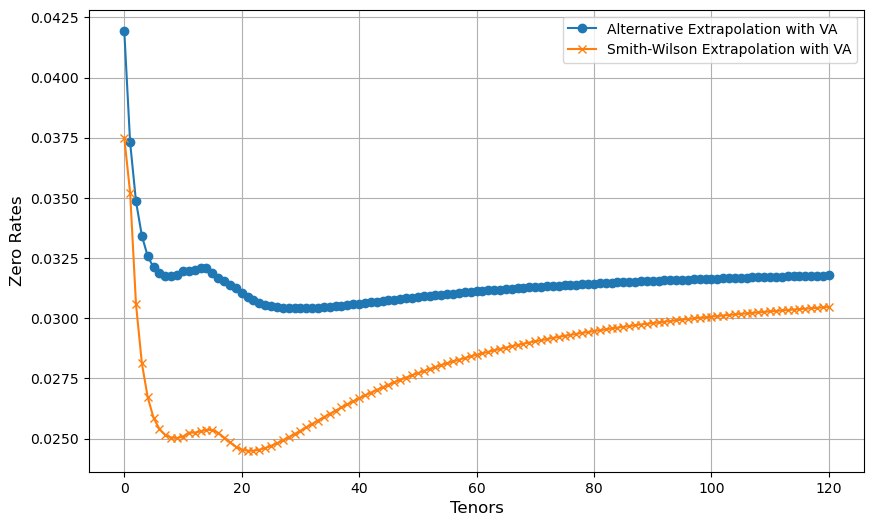
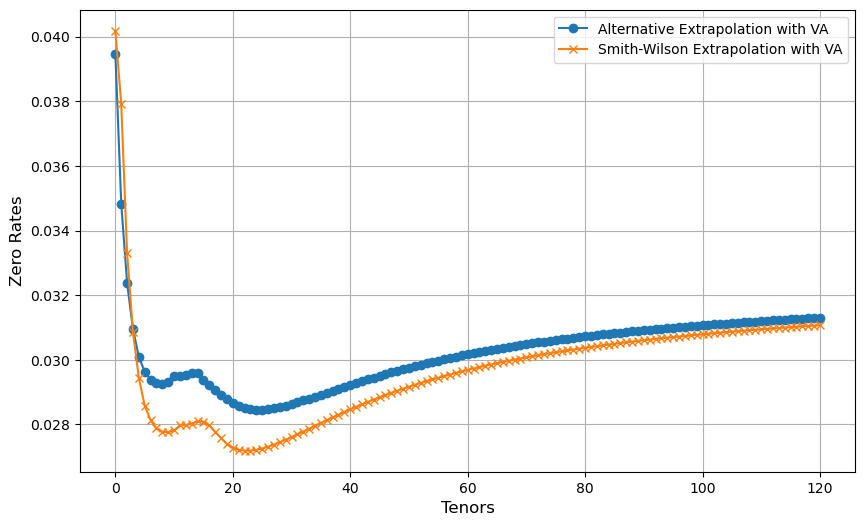
SII Review Tool: Adding externally computed va spread values.

diff --git a/main.py b/main.py
@@ -21,9 +21,6 @@ def main():
     va_spreads_df.set_index('Issuer', inplace=True)
     md.close_workbook()
 
-    # Parameters
-    cp = CurveParameters()
-
     # Instantiate business logic classes
     bootstr = Bootstrapping()
     ext_alt = ExtrapolationAlt()
@@ -32,19 +29,22 @@ def main():
 
     # Define scenarios
     scenarios = [
-        {'name': 'base_interest_base_spreads', 'shift': 0},
-        {'name': 'low_interest_base_spreads', 'shift': -200},
-        {'name': 'base_interest_high_spreads', 'shift': 200},
-        {'name': 'high_interest_base_spreads', 'shift': 200},
-        {'name': 'high_interest_high_spreads', 'shift': 200},
+        {'name': 'base_interest_base_spreads', 'irshift': 0, 'csshift': 0, 'vaspread': 27},
+        {'name': 'low_interest_base_spreads', 'irshift': -200, 'csshift': 0, 'vaspread': 27},
+        {'name': 'base_interest_high_spreads', 'irshift': 200, 'csshift': 100, 'vaspread': 45},
+        {'name': 'high_interest_base_spreads', 'irshift': 200, 'csshift': 0, 'vaspread': 45},
+        {'name': 'high_interest_high_spreads', 'irshift': 200, 'csshift': 100, 'vaspread': 27},
     ]
     # scenarios = [
-    #     {'name': 'low_interest_low_spreads', 'shift': 0}
+    #     {'name': 'low_interest_low_spreads', 'irshift': 0}
     # ]
 
     # Iterate over scenarios
     for scenario in scenarios:
         print(f"Processing scenario: {scenario['name']}")
+
+        # Parameters
+        cp = CurveParameters(scenario['vaspread'])
 
         # Apply global shift to curves for high interest rates or spreads
         df_alt_shifted = df_alt.copy()
@@ -52,14 +52,14 @@ def main():
         va_spreads_shifted = va_spreads_df.copy()
 
         if 'high_interest' in scenario['name'] or 'low_interest' in scenario['name']:
-            df_alt_shifted['Input Rates'] += scenario['shift'] / \
+            df_alt_shifted['Input Rates'] += scenario['irshift'] / \
                 10000  # Convert bps to decimal
-            df_sw_shifted['Input Rates'] += scenario['shift'] / \
+            df_sw_shifted['Input Rates'] += scenario['irshift'] / \
                 10000  # Convert bps to decimal
 
         if 'high_spreads' in scenario['name']:
             # Convert bps to decimal
-            va_spreads_shifted += scenario['shift'] / 10000
+            va_spreads_shifted += scenario['csshift'] / 10000
 
         # Prepare arrays for bootstrapping
         dlt_array = np.zeros(cp.max_tenorofAlt)
@@ -105,6 +105,7 @@ def main():
         va_calc = VASpreadCalculator(
             va_spreads_shifted, cp.fi_asset_size, cp.liability_size, cp.pvbp_fi_assets, cp.pvbp_liabs)
         va_new = va_calc.compute_total_va()
+        print(va_new)
 
         zero_boot_withNewVA = ext_alt.zero_boot_withVA(
             df_boot['Forward_CC'].values, cp.max_tenorofAlt, cp.FSP, va_new)
@@ -168,7 +169,7 @@ def main():
         results_impact_df = pd.DataFrame(results_impact, columns=[
                                          'Liability Size', 'Liability Duration', 'Own Funds Impact'])
 
-        print(results_impact_df)
+        # print(results_impact_df)
 
         plotter = ImpactDensityPlotter(results_impact_df)
         plotter.create_heatmap(

diff --git a/params.py b/params.py
@@ -4,13 +4,13 @@ class CurveParameters:
     Adjust the actual values to match your real workbook.
     """
 
-    def __init__(self):
+    def __init__(self, vaspread):
 
         # Generic
         self.compounding_in = 'A'  # compunding of input rates, 'A' => annual by default
         self.compounding_out = 'C'  # compunding of bootstrapped rates, 'C' => continuous by default
         self.instrument = 'Zero'     # Input Rates can be "Zero", "Bond", or "Swap"
-        self.VA_value = 17    # VA in [bp]
+        self.VA_value = vaspread   # VA in [bp]
         self.coupon_freq = 1.0  # number of annual coupon payments
 
         # Required for Alternative (Dutch) calculation
@@ -31,8 +31,10 @@ class CurveParameters:
         # Required for VA and impact calculation
         self.asset_size = 1e6  # Size of Asset Portfolio
         self.asset_duration = 6.8  # Duration of Asset Portfolio | Derivation from EIOPA reference portfolio 03/24
-        self.liability_size = 0.8e6   # Size of Liability Portfolio
-        self.liability_duration = 10.0   # Duration of Liability Portfolio | BE
+        self.liability_size = 0.8e6  # Size of Liability Portfolio (0.8e6)
+        self.liability_duration = 10.0 # Duration of Liability Portfolio | BE (10.0)
+        # self.liability_size_base_value = 0.8e6
+        # self.liability_duration_base_value = 10.0
 
         # Required for VA
         self.fi_asset_size = 0.62 * self.asset_size   # FI-part of Asset Portfolio | Derivation from EIOPA reference portfolio 03/24

diff --git a/plots/impactplotter.py b/plots/impactplotter.py
@@ -10,6 +10,7 @@ class ImpactDensityPlotter:
         """
         Initializes the heatmap visualizer with a DataFrame.
         :param results_impact_df: Pandas DataFrame with columns ['Liability Size', 'Liability Duration', 'Own Funds Impact'].
+        :param x_multiplier: Multiplier to apply to the x-axis values.
         """
         self.results_impact_df = results_impact_df
 
@@ -31,12 +32,13 @@ class ImpactDensityPlotter:
 
         plt.figure(figsize=(10, 6))
 
-        # Use contourf to create the density heatmap
+        # Use contourf to create the density heatmap with the new colormap
         contour = plt.contourf(xi, yi, zi, levels=100, cmap='coolwarm')
 
         # Add colorbar to indicate z-values
-        plt.colorbar(contour, label='Own Funds Impact')
-        plt.xlabel('Liability Size')
+        plt.title('Own Funds Impact')
+        plt.colorbar(contour)
+        plt.xlabel('Liability Size (Scaled)')
         plt.ylabel('Liability Duration')
 
         if output_path:
